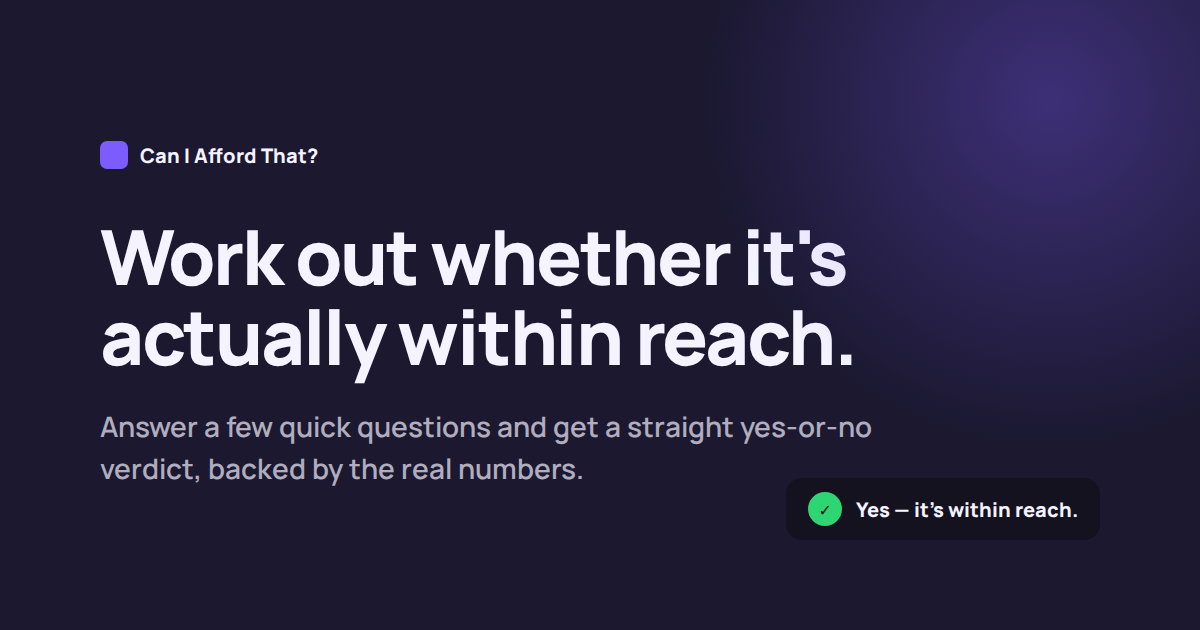
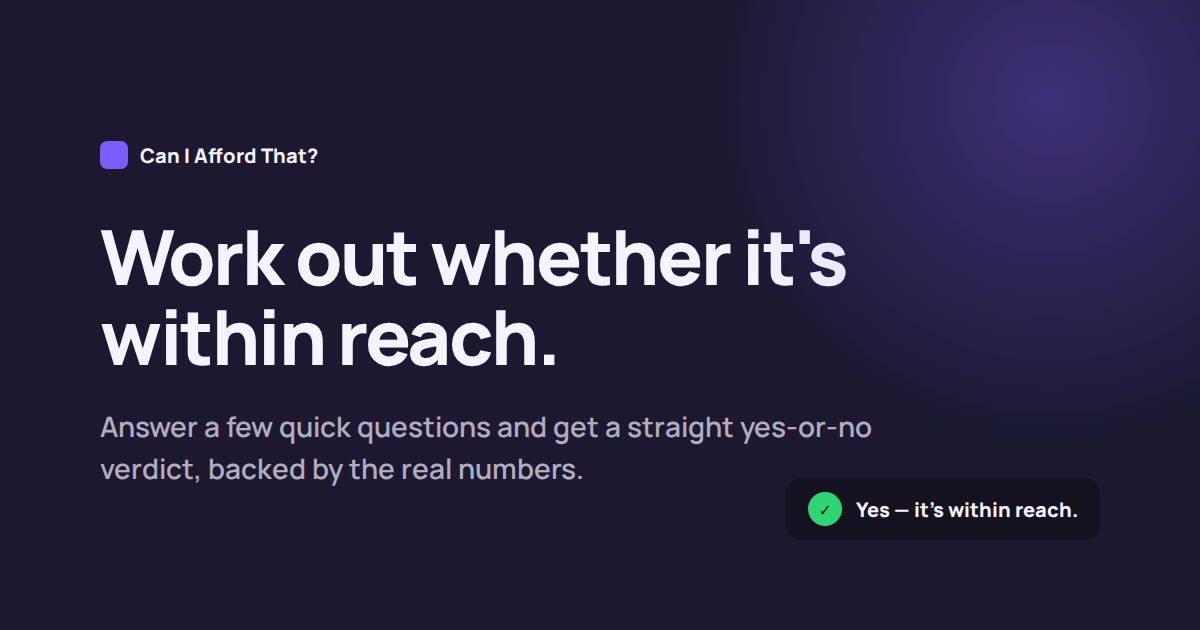
Regenerate OG image without "actually"; commit its generator
The social-share card (public/og-image.png) is a rendered PNG, so the
headline reword in the previous commit didn't reach it. Regenerated it to
match ("Work out whether it's within reach.").

Also commits the generator (scripts/og-image/) that was previously an
ad-hoc scratch script, so the card is reproducible in-repo next time via
`node scripts/og-image/render.mjs`.

Changed region(s): [[0.0617, 0.4825, 0.7092, 0.6032]]

diff --git a/scripts/og-image/og.html b/scripts/og-image/og.html
@@ -1,0 +1,109 @@
+<!doctype html>
+<html>
+<head>
+<meta charset="utf-8" />
+<link rel="preconnect" href="https://fonts.googleapis.com" />
+<link rel="preconnect" href="https://fonts.gstatic.com" crossorigin />
+<link
+  href="https://fonts.googleapis.com/css2?family=IBM+Plex+Mono:wght@700&family=Manrope:wght@600;800&display=swap"
+  rel="stylesheet"
+/>
+<style>
+  * { margin: 0; padding: 0; box-sizing: border-box; }
+  body {
+    width: 1200px;
+    height: 630px;
+    background: #1b1830;
+    font-family: 'Manrope', sans-serif;
+    color: #f5f3ff;
+    display: flex;
+    flex-direction: column;
+    justify-content: center;
+    padding: 90px 100px;
+    position: relative;
+    overflow: hidden;
+  }
+  .glow {
+    position: absolute;
+    width: 700px;
+    height: 700px;
+    border-radius: 50%;
+    background: radial-gradient(circle, rgba(124,92,252,0.35) 0%, rgba(124,92,252,0) 70%);
+    top: -250px;
+    right: -200px;
+  }
+  .brand {
+    display: flex;
+    align-items: center;
+    gap: 12px;
+    margin-bottom: 48px;
+  }
+  .brand .square {
+    width: 28px;
+    height: 28px;
+    border-radius: 7px;
+    background: #7c5cfc;
+  }
+  .brand .name {
+    font-size: 20px;
+    font-weight: 700;
+  }
+  h1 {
+    font-size: 76px;
+    font-weight: 800;
+    letter-spacing: -0.03em;
+    line-height: 1.05;
+    margin-bottom: 28px;
+    max-width: 900px;
+  }
+  p {
+    font-size: 28px;
+    font-weight: 600;
+    color: rgba(245, 243, 255, 0.7);
+    max-width: 780px;
+    line-height: 1.5;
+  }
+  .verdict {
+    position: absolute;
+    bottom: 90px;
+    right: 100px;
+    display: flex;
+    align-items: center;
+    gap: 14px;
+    background: #14121f;
+    border-radius: 16px;
+    padding: 14px 22px;
+  }
+  .verdict .dot {
+    width: 34px;
+    height: 34px;
+    border-radius: 50%;
+    background: #2ed573;
+    display: flex;
+    align-items: center;
+    justify-content: center;
+    font-size: 18px;
+    font-weight: 800;
+    color: #14121f;
+    font-family: 'IBM Plex Mono', monospace;
+  }
+  .verdict .label {
+    font-size: 20px;
+    font-weight: 800;
+  }
+</style>
+</head>
+<body>
+  <div class="glow"></div>
+  <div class="brand">
+    <div class="square"></div>
+    <div class="name">Can I Afford That?</div>
+  </div>
+  <h1>Work out whether it's<br />within reach.</h1>
+  <p>Answer a few quick questions and get a straight yes-or-no verdict, backed by the real numbers.</p>
+  <div class="verdict">
+    <div class="dot">✓</div>
+    <div class="label">Yes — it's within reach.</div>
+  </div>
+</body>
+</html>

diff --git a/scripts/og-image/README.md b/scripts/og-image/README.md
@@ -1,0 +1,17 @@
+# OG image generator
+
+Generates the social-share card at `public/og-image.png` (referenced by the
+Open Graph / Twitter meta tags in `index.html`).
+
+- `og.html` — the 1200×630 card layout (kept in sync with the hero headline in
+  `src/components/steps/Step0Intro.tsx`).
+- `render.mjs` — screenshots `og.html` with Playwright's bundled Chromium.
+
+To regenerate after editing `og.html`:
+
+```bash
+node scripts/og-image/render.mjs
+```
+
+Playwright is already a dev dependency; if the browser binary is missing, run
+`npx playwright install chromium` first.